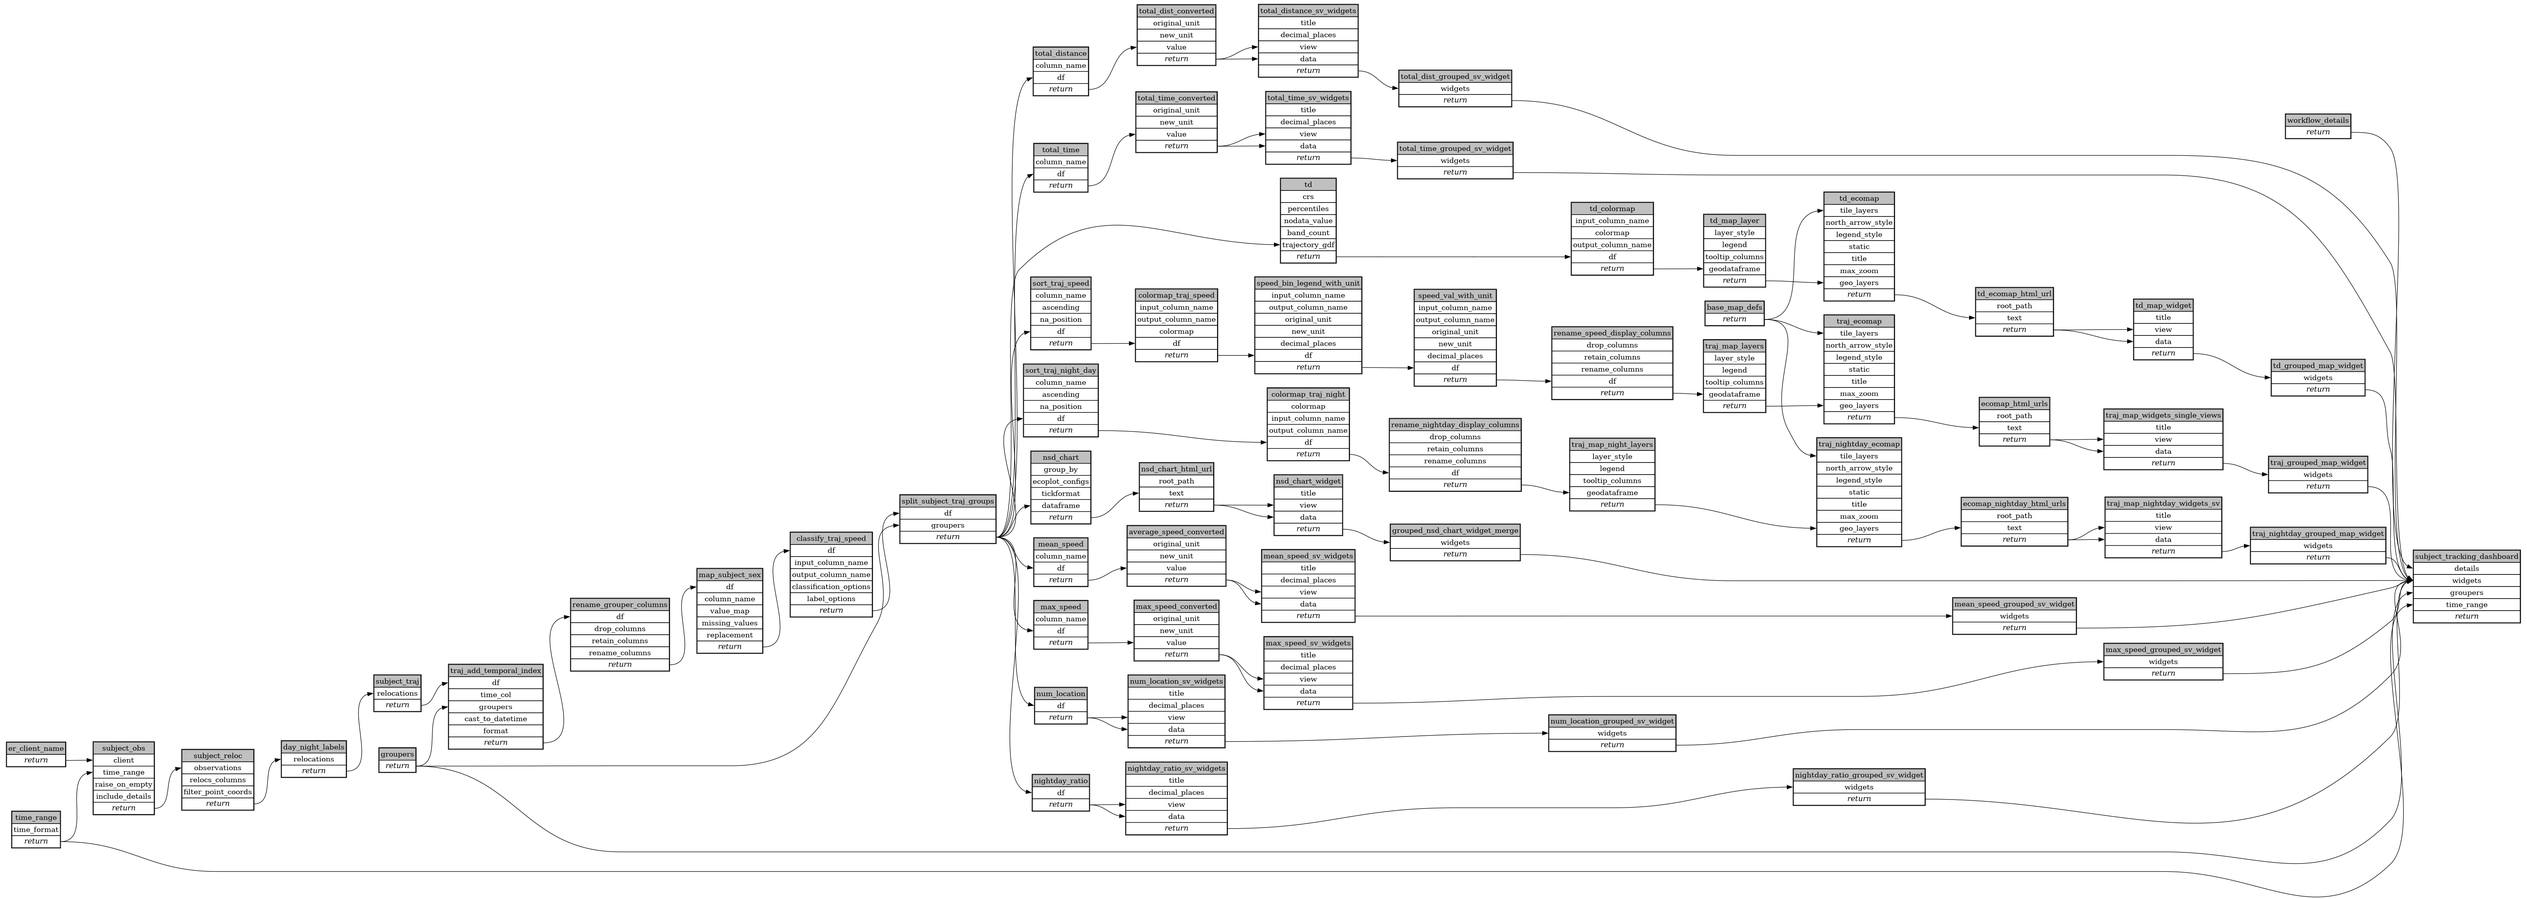
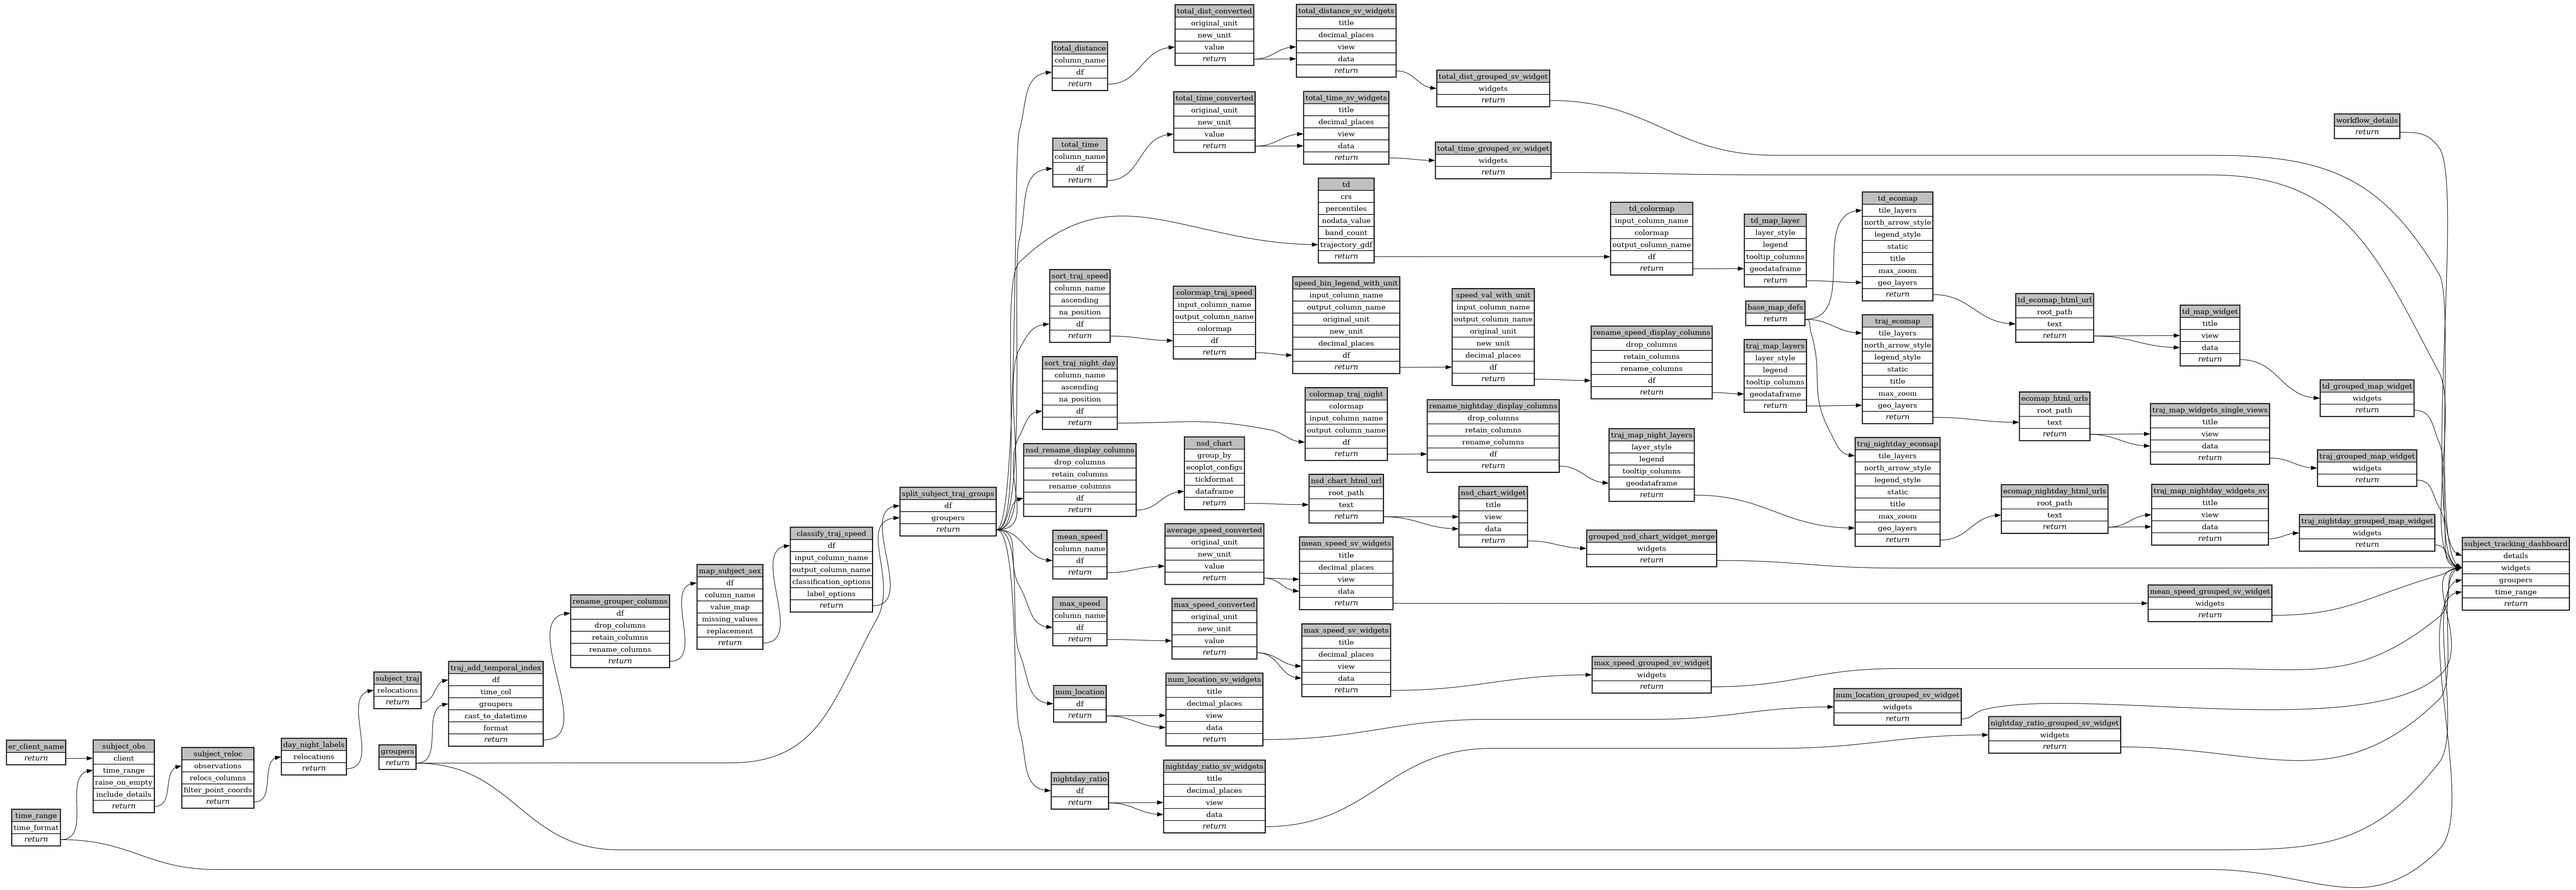
auto: recompile ecoscope-workflows-subject-tracking-workflow

diff --git a/ecoscope-workflows-subject-tracking-workflow/ecoscope_workflows_subject_tracking_workflow/dags/run_async.py b/ecoscope-workflows-subject-tracking-workflow/ecoscope_workflows_subject_tracking_workflow/dags/run_async.py
@@ -113,7 +113,8 @@ def main(params: Params):
         "td_ecomap_html_url": ["td_ecomap"],
         "td_map_widget": ["td_ecomap_html_url"],
         "td_grouped_map_widget": ["td_map_widget"],
-        "nsd_chart": ["split_subject_traj_groups"],
+        "nsd_rename_display_columns": ["split_subject_traj_groups"],
+        "nsd_chart": ["nsd_rename_display_columns"],
         "nsd_chart_html_url": ["nsd_chart"],
         "nsd_chart_widget": ["nsd_chart_html_url"],
         "grouped_nsd_chart_widget_merge": ["nsd_chart_widget"],
@@ -1431,6 +1432,32 @@ def main(params: Params):
             | (params_dict.get("td_grouped_map_widget") or {}),
             method="call",
         ),
+        "nsd_rename_display_columns": Node(
+            async_task=map_columns.validate()
+            .handle_errors(task_instance_id="nsd_rename_display_columns")
+            .skipif(
+                conditions=[
+                    any_is_empty_df,
+                    any_dependency_skipped,
+                ],
+                unpack_depth=1,
+            )
+            .set_executor("lithops"),
+            partial={
+                "drop_columns": [],
+                "retain_columns": [],
+                "rename_columns": {
+                    "segment_start": "Time",
+                    "nsd": "Net-Square Displacement (square meters)",
+                },
+            }
+            | (params_dict.get("nsd_rename_display_columns") or {}),
+            method="mapvalues",
+            kwargs={
+                "argnames": ["df"],
+                "argvalues": DependsOn("split_subject_traj_groups"),
+            },
+        ),
         "nsd_chart": Node(
             async_task=draw_ecoplot.validate()
             .handle_errors(task_instance_id="nsd_chart")
@@ -1446,8 +1473,8 @@ def main(params: Params):
                 "group_by": "subject_name",
                 "ecoplot_configs": [
                     {
-                        "x_col": "segment_start",
-                        "y_col": "nsd",
+                        "x_col": "Time",
+                        "y_col": "Net-Square Displacement (square meters)",
                         "plot_style": {"xperiodalignment": None},
                         "color_column": None,
                     }
@@ -1458,7 +1485,7 @@ def main(params: Params):
             method="mapvalues",
             kwargs={
                 "argnames": ["dataframe"],
-                "argvalues": DependsOn("split_subject_traj_groups"),
+                "argvalues": DependsOn("nsd_rename_display_columns"),
             },
         ),
         "nsd_chart_html_url": Node(

diff --git a/ecoscope-workflows-subject-tracking-workflow/ecoscope_workflows_subject_tracking_workflow/dags/run_async_mock_io.py b/ecoscope-workflows-subject-tracking-workflow/ecoscope_workflows_subject_tracking_workflow/dags/run_async_mock_io.py
@@ -130,7 +130,8 @@ def main(params: Params):
         "td_ecomap_html_url": ["td_ecomap"],
         "td_map_widget": ["td_ecomap_html_url"],
         "td_grouped_map_widget": ["td_map_widget"],
-        "nsd_chart": ["split_subject_traj_groups"],
+        "nsd_rename_display_columns": ["split_subject_traj_groups"],
+        "nsd_chart": ["nsd_rename_display_columns"],
         "nsd_chart_html_url": ["nsd_chart"],
         "nsd_chart_widget": ["nsd_chart_html_url"],
         "grouped_nsd_chart_widget_merge": ["nsd_chart_widget"],
@@ -1448,6 +1449,32 @@ def main(params: Params):
             | (params_dict.get("td_grouped_map_widget") or {}),
             method="call",
         ),
+        "nsd_rename_display_columns": Node(
+            async_task=map_columns.validate()
+            .handle_errors(task_instance_id="nsd_rename_display_columns")
+            .skipif(
+                conditions=[
+                    any_is_empty_df,
+                    any_dependency_skipped,
+                ],
+                unpack_depth=1,
+            )
+            .set_executor("lithops"),
+            partial={
+                "drop_columns": [],
+                "retain_columns": [],
+                "rename_columns": {
+                    "segment_start": "Time",
+                    "nsd": "Net-Square Displacement (square meters)",
+                },
+            }
+            | (params_dict.get("nsd_rename_display_columns") or {}),
+            method="mapvalues",
+            kwargs={
+                "argnames": ["df"],
+                "argvalues": DependsOn("split_subject_traj_groups"),
+            },
+        ),
         "nsd_chart": Node(
             async_task=draw_ecoplot.validate()
             .handle_errors(task_instance_id="nsd_chart")
@@ -1463,8 +1490,8 @@ def main(params: Params):
                 "group_by": "subject_name",
                 "ecoplot_configs": [
                     {
-                        "x_col": "segment_start",
-                        "y_col": "nsd",
+                        "x_col": "Time",
+                        "y_col": "Net-Square Displacement (square meters)",
                         "plot_style": {"xperiodalignment": None},
                         "color_column": None,
                     }
@@ -1475,7 +1502,7 @@ def main(params: Params):
             method="mapvalues",
             kwargs={
                 "argnames": ["dataframe"],
-                "argvalues": DependsOn("split_subject_traj_groups"),
+                "argvalues": DependsOn("nsd_rename_display_columns"),
             },
         ),
         "nsd_chart_html_url": Node(

diff --git a/ecoscope-workflows-subject-tracking-workflow/ecoscope_workflows_subject_tracking_workflow/dags/run_sequential.py b/ecoscope-workflows-subject-tracking-workflow/ecoscope_workflows_subject_tracking_workflow/dags/run_sequential.py
@@ -1166,6 +1166,28 @@ def main(params: Params):
         .call()
     )
 
+    nsd_rename_display_columns = (
+        map_columns.validate()
+        .handle_errors(task_instance_id="nsd_rename_display_columns")
+        .skipif(
+            conditions=[
+                any_is_empty_df,
+                any_dependency_skipped,
+            ],
+            unpack_depth=1,
+        )
+        .partial(
+            drop_columns=[],
+            retain_columns=[],
+            rename_columns={
+                "segment_start": "Time",
+                "nsd": "Net-Square Displacement (square meters)",
+            },
+            **(params_dict.get("nsd_rename_display_columns") or {}),
+        )
+        .mapvalues(argnames=["df"], argvalues=split_subject_traj_groups)
+    )
+
     nsd_chart = (
         draw_ecoplot.validate()
         .handle_errors(task_instance_id="nsd_chart")
@@ -1180,8 +1202,8 @@ def main(params: Params):
             group_by="subject_name",
             ecoplot_configs=[
                 {
-                    "x_col": "segment_start",
-                    "y_col": "nsd",
+                    "x_col": "Time",
+                    "y_col": "Net-Square Displacement (square meters)",
                     "plot_style": {"xperiodalignment": None},
                     "color_column": None,
                 }
@@ -1189,7 +1211,7 @@ def main(params: Params):
             tickformat="%b-%Y",
             **(params_dict.get("nsd_chart") or {}),
         )
-        .mapvalues(argnames=["dataframe"], argvalues=split_subject_traj_groups)
+        .mapvalues(argnames=["dataframe"], argvalues=nsd_rename_display_columns)
     )
 
     nsd_chart_html_url = (

diff --git a/ecoscope-workflows-subject-tracking-workflow/ecoscope_workflows_subject_tracking_workflow/dags/run_sequential_mock_io.py b/ecoscope-workflows-subject-tracking-workflow/ecoscope_workflows_subject_tracking_workflow/dags/run_sequential_mock_io.py
@@ -1183,6 +1183,28 @@ def main(params: Params):
         .call()
     )
 
+    nsd_rename_display_columns = (
+        map_columns.validate()
+        .handle_errors(task_instance_id="nsd_rename_display_columns")
+        .skipif(
+            conditions=[
+                any_is_empty_df,
+                any_dependency_skipped,
+            ],
+            unpack_depth=1,
+        )
+        .partial(
+            drop_columns=[],
+            retain_columns=[],
+            rename_columns={
+                "segment_start": "Time",
+                "nsd": "Net-Square Displacement (square meters)",
+            },
+            **(params_dict.get("nsd_rename_display_columns") or {}),
+        )
+        .mapvalues(argnames=["df"], argvalues=split_subject_traj_groups)
+    )
+
     nsd_chart = (
         draw_ecoplot.validate()
         .handle_errors(task_instance_id="nsd_chart")
@@ -1197,8 +1219,8 @@ def main(params: Params):
             group_by="subject_name",
             ecoplot_configs=[
                 {
-                    "x_col": "segment_start",
-                    "y_col": "nsd",
+                    "x_col": "Time",
+                    "y_col": "Net-Square Displacement (square meters)",
                     "plot_style": {"xperiodalignment": None},
                     "color_column": None,
                 }
@@ -1206,7 +1228,7 @@ def main(params: Params):
             tickformat="%b-%Y",
             **(params_dict.get("nsd_chart") or {}),
         )
-        .mapvalues(argnames=["dataframe"], argvalues=split_subject_traj_groups)
+        .mapvalues(argnames=["dataframe"], argvalues=nsd_rename_display_columns)
     )
 
     nsd_chart_html_url = (

diff --git a/ecoscope-workflows-subject-tracking-workflow/ecoscope_workflows_subject_tracking_workflow/dags/jupytext.py b/ecoscope-workflows-subject-tracking-workflow/ecoscope_workflows_subject_tracking_workflow/dags/jupytext.py
@@ -1886,6 +1886,40 @@ td_grouped_map_widget = (
 
 
 # %% [markdown]
+# ## Rename axis label for NSD plot
+
+# %%
+# parameters
+
+nsd_rename_display_columns_params = dict()
+
+# %%
+# call the task
+
+
+nsd_rename_display_columns = (
+    map_columns.handle_errors(task_instance_id="nsd_rename_display_columns")
+    .skipif(
+        conditions=[
+            any_is_empty_df,
+            any_dependency_skipped,
+        ],
+        unpack_depth=1,
+    )
+    .partial(
+        drop_columns=[],
+        retain_columns=[],
+        rename_columns={
+            "segment_start": "Time",
+            "nsd": "Net-Square Displacement (square meters)",
+        },
+        **nsd_rename_display_columns_params,
+    )
+    .mapvalues(argnames=["df"], argvalues=split_subject_traj_groups)
+)
+
+
+# %% [markdown]
 # ## Draw NSD Scatter Chart
 
 # %%
@@ -1910,8 +1944,8 @@ nsd_chart = (
         group_by="subject_name",
         ecoplot_configs=[
             {
-                "x_col": "segment_start",
-                "y_col": "nsd",
+                "x_col": "Time",
+                "y_col": "Net-Square Displacement (square meters)",
                 "plot_style": {"xperiodalignment": None},
                 "color_column": None,
             }
@@ -1919,7 +1953,7 @@ nsd_chart = (
         tickformat="%b-%Y",
         **nsd_chart_params,
     )
-    .mapvalues(argnames=["dataframe"], argvalues=split_subject_traj_groups)
+    .mapvalues(argnames=["dataframe"], argvalues=nsd_rename_display_columns)
 )
 
 

diff --git a/ecoscope-workflows-subject-tracking-workflow/README.md b/ecoscope-workflows-subject-tracking-workflow/README.md
@@ -5,17 +5,17 @@
 
 ```yaml
 # fingerprint:
-artifacts_sha256_basic: 358b067b2c1ab5a61fe9bb8f9f0acb8763fac97575e01e6ee20734a947e8e1aa
-artifacts_sha256_strict: e4997c975046194085b7f924cebb73a82039918f08020200f6f8eb219d62cad2
+artifacts_sha256_basic: e6698f698df4b07ee7197b19db3e9bc88e316c7a3e30842f279d7bdda2276f3e
+artifacts_sha256_strict: e2a1253ae2b49b47e13c449c9362d9332db5d540c8e6340a324a470174d9a265
 installed_requirements:
 - channel: https://repo.prefix.dev/ecoscope-workflows/
   name: ecoscope-workflows-core
-  version: {version: ==0.3.4}
+  version: {version: ==0.3.5}
 - channel: https://repo.prefix.dev/ecoscope-workflows/
   name: ecoscope-workflows-ext-ecoscope
-  version: {version: ==0.3.4}
+  version: {version: ==0.3.5}
 params_sha256: 77b2fd505097a612234ed9efa4709f860298ff9cb42749c0eca41834acaf31aa
-spec_sha256: 1b5990cc7db0a703afe7a09ff08995e4dfe661e5276460bb373101e490593fff
+spec_sha256: c7ff5f7e3cbcdb6a817ed985da4cacfd7729ecddf771398b2e6efec64404398d
 
 ```
 
